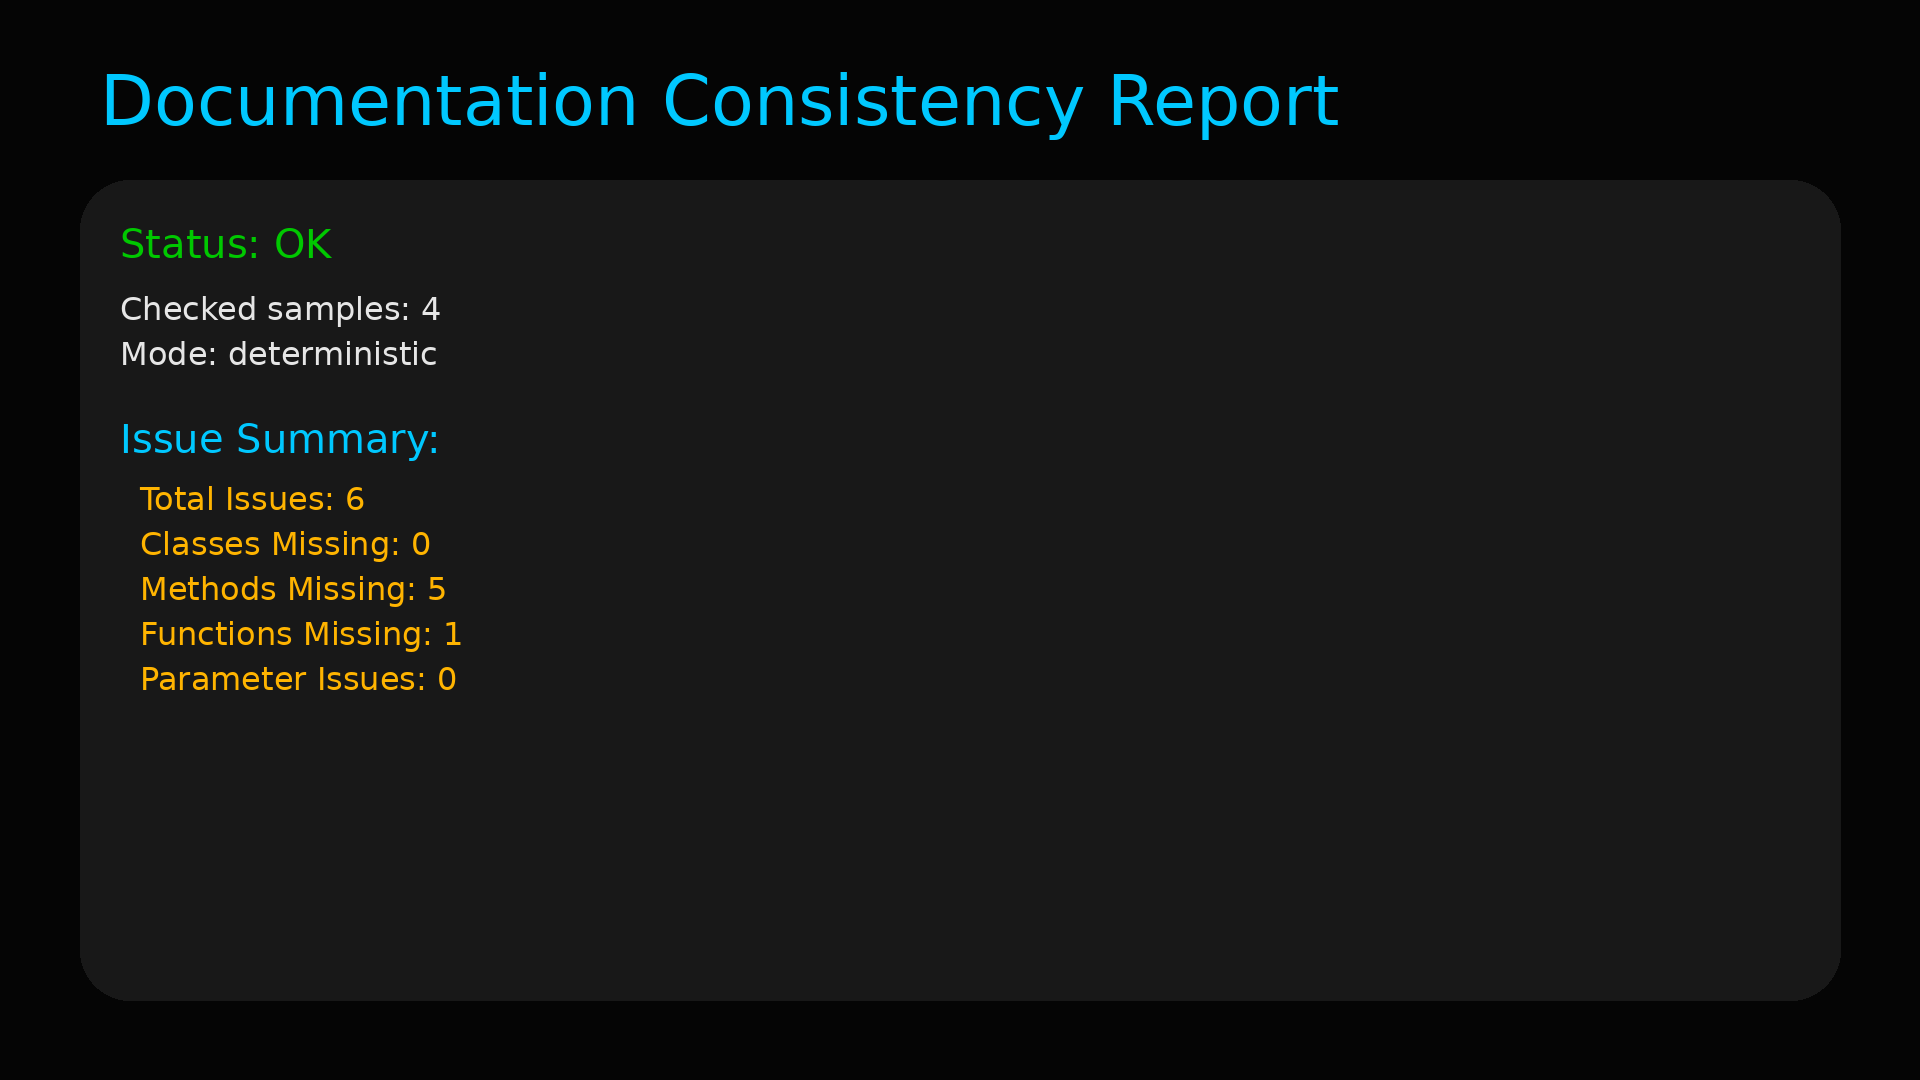
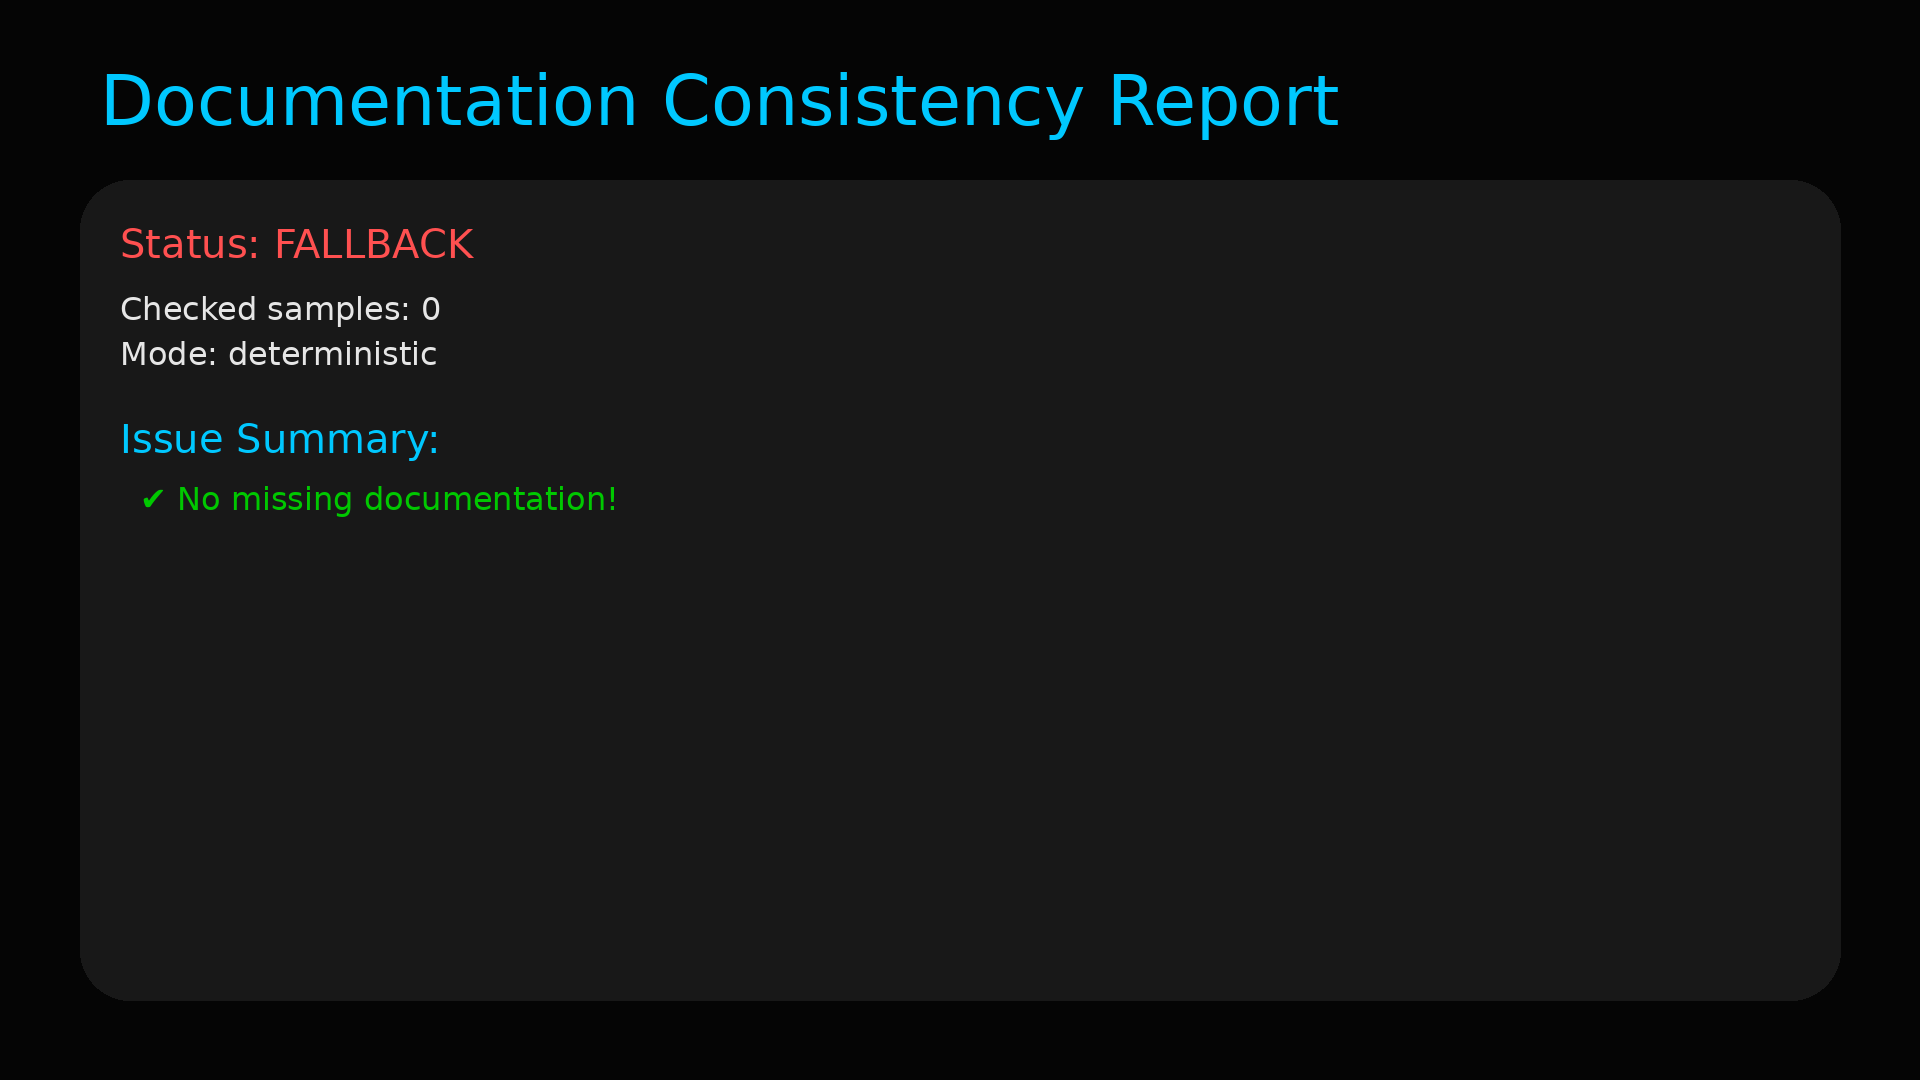
Fix undefined 'suggestions' variable and matplotlib ticklabel warning

Changed region(s): [[0.0625, 0.4278, 0.3125, 0.6417], [0.0625, 0.2139, 0.25, 0.2444], [0.2188, 0.275, 0.25, 0.3056]]

diff --git a/app.py b/app.py
@@ -293,6 +293,7 @@ if uploaded_project:
                     fig, ax = plt.subplots(figsize=(6, 4))
                     ax.bar(labels, values, color=["#e74c3c", "#e67e22", "#f1c40f", "#3498db"])  # red, orange, yellow, blue
                     ax.set_ylabel("Count")
+                    ax.set_xticks(range(len(labels)))
                     ax.set_xticklabels(labels, rotation=30, ha='right')
                     ax.grid(axis='y', alpha=0.2)
                     plt.tight_layout()
@@ -390,7 +391,11 @@ if uploaded_project:
             report_content = f"ANALYSIS REPORT\n{'='*20}\n"
             report_content += f"Issues found: {len(issues)}\n\n"
             report_content += "ISSUES:\n" + "\n".join(issues)
-            report_content += f"\n\nSUGGESTIONS:\n{suggestions}"
+            
+            # Include LLM analysis if available
+            llm_analysis = result.get("llm_analysis", "")
+            if llm_analysis:
+                report_content += f"\n\nAI SUGGESTIONS:\n{llm_analysis}"
 
             st.download_button(
                 label="Download Full Text Report",
